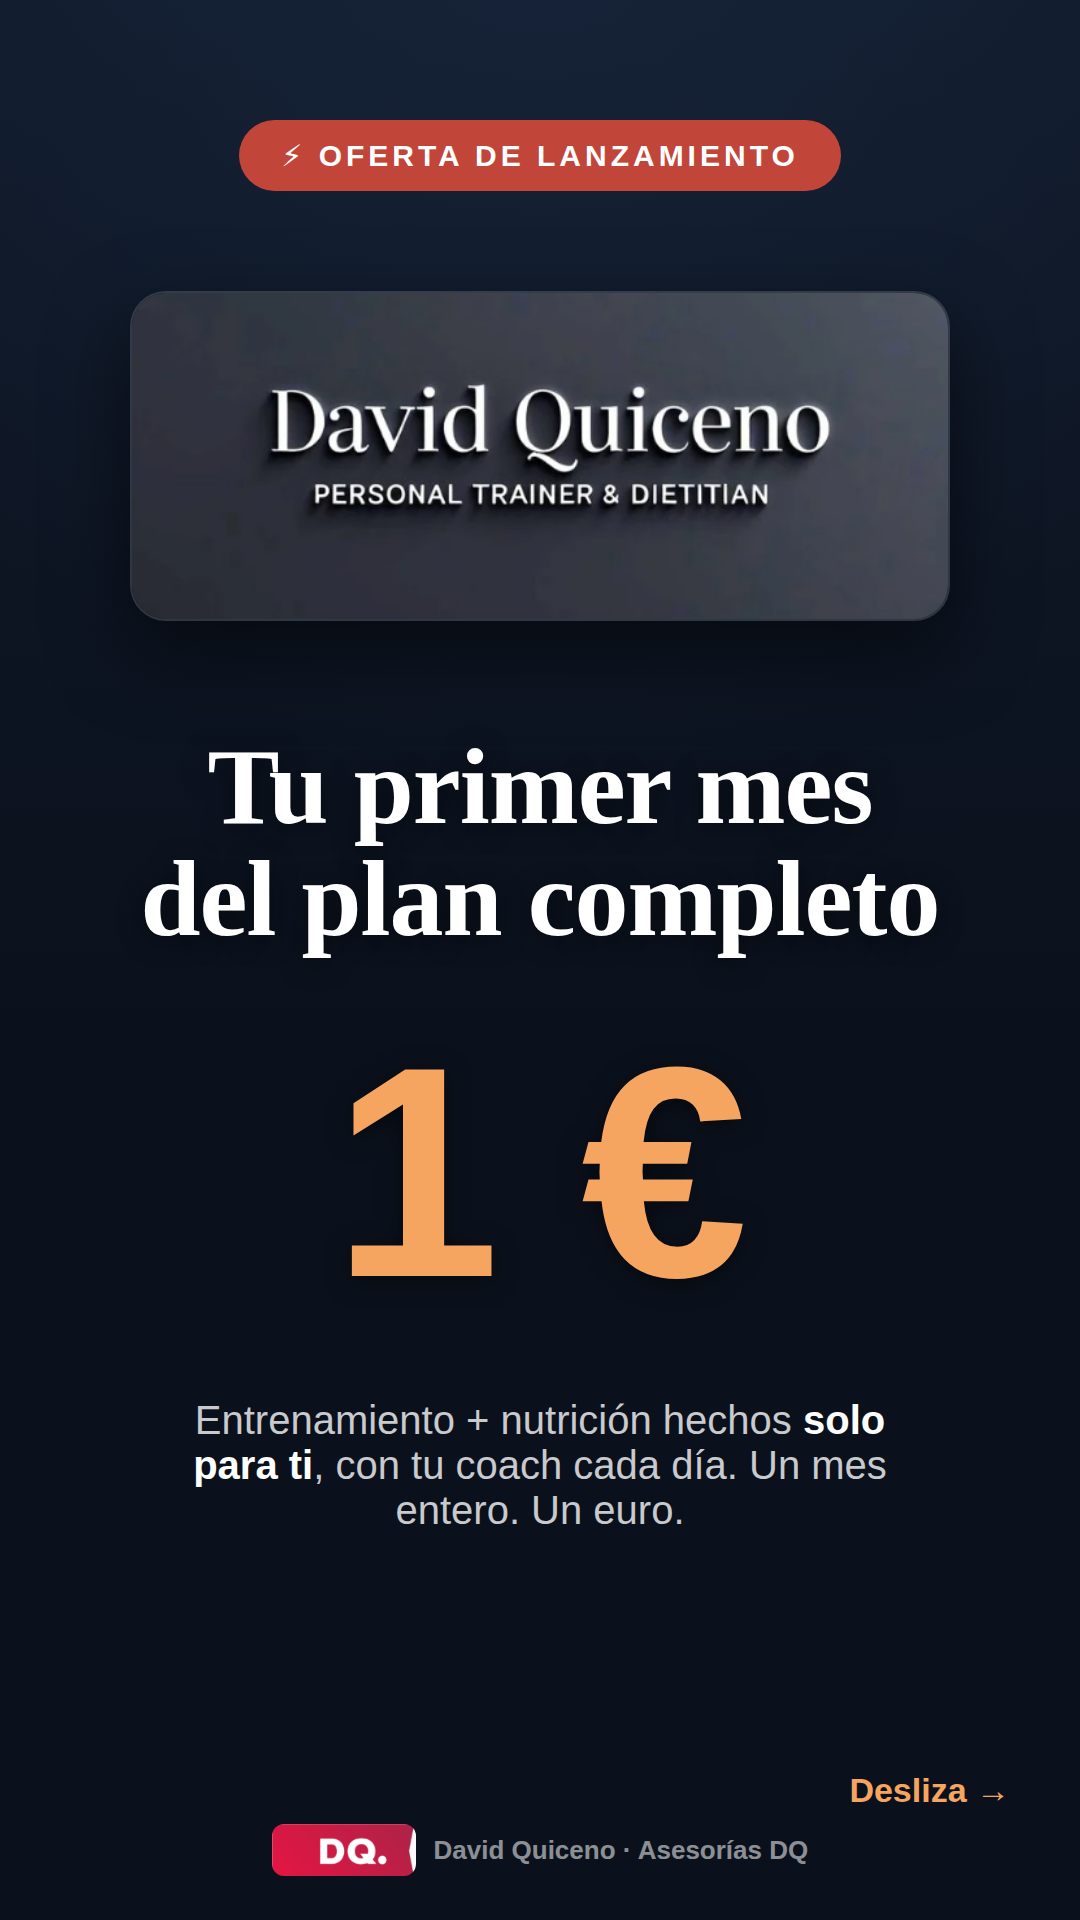
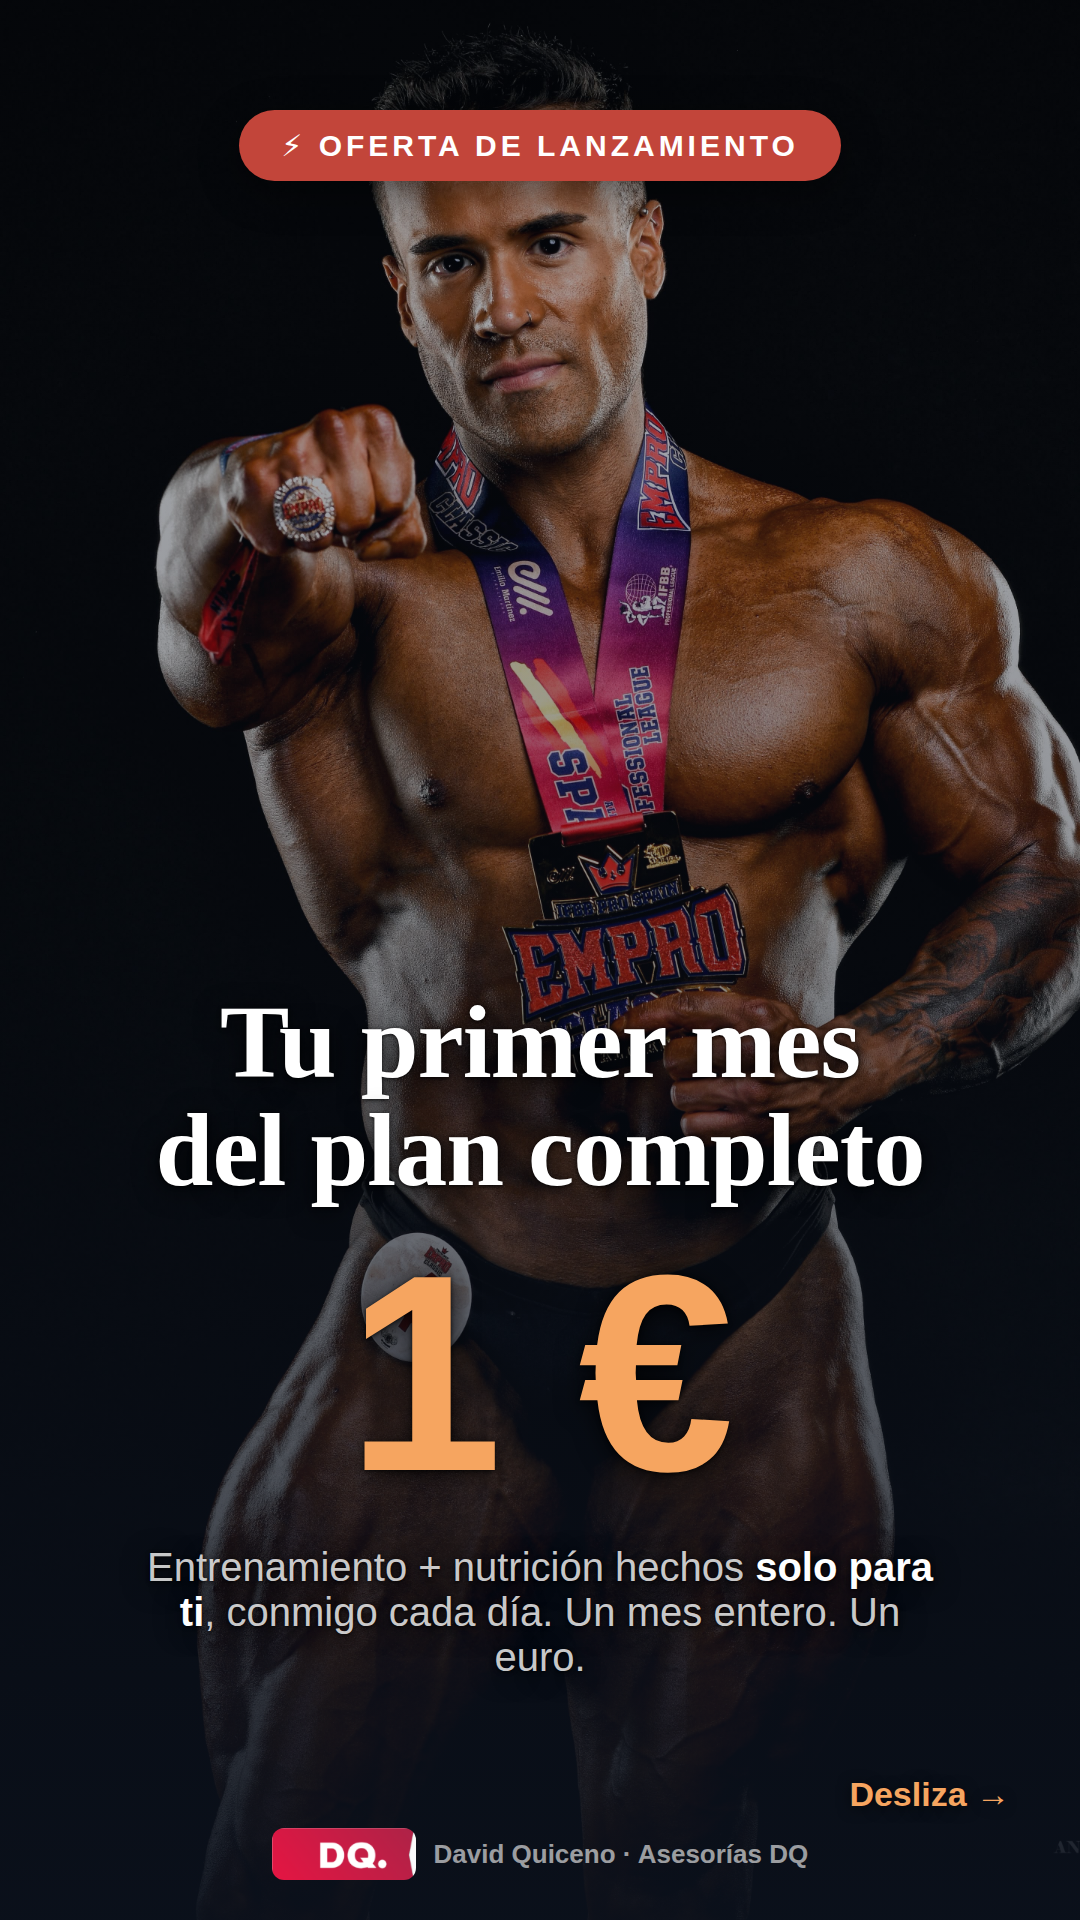
Carrusel de la oferta rehecho con las fotos reales del coach
Las 8 piezas (4 story 1080×1920 + 4 post 1080×1350) usan las fotos que
envió el dueño: portada y cierre a sangre con las de competición (medalla
EMPRO y pro card — autoridad), el gimnasio en "qué incluye" y el espejo en
la de garantía (cercanía). La de los botes del partner se descartó para no
mezclar marcas en la promo. Fuente HTML editable + fotos en marketing/.

Claude-Session: https://claude.ai/code/session_01MEW7JVgvk6TEFN6kikkskf

diff --git a/marketing/oferta-1eur/carrusel.html b/marketing/oferta-1eur/carrusel.html
@@ -2,7 +2,7 @@
 <html lang="es">
 <head>
 <meta charset="utf-8">
-<title>Carrusel oferta DQ</title>
+<title>Carrusel oferta DQ — fotos del coach</title>
 <style>
   :root {
     --bg: #0B111C;
@@ -23,43 +23,54 @@
     display: flex; flex-direction: column; align-items: center;
     margin: 20px auto;
   }
-  .story { width: 1080px; height: 1920px; padding: 120px 90px 110px; }
-  .post  { width: 1080px; height: 1350px; padding: 90px 90px 80px; }
+  .story { width: 1080px; height: 1920px; padding: 110px 90px 110px; }
+  .post  { width: 1080px; height: 1350px; padding: 80px 90px 80px; }
   .serif { font-family: Georgia, "Times New Roman", serif; }
+
+  /* Foto a SANGRE de fondo (portada y cierre) + velo para leer el texto */
+  .bleed { position: absolute; inset: 0; z-index: 0; }
+  .bleed img { width: 100%; height: 100%; object-fit: cover; }
+  .veil {
+    position: absolute; inset: 0; z-index: 1;
+    background: linear-gradient(180deg, rgba(11,17,28,0.30) 0%,
+                rgba(11,17,28,0.42) 45%, rgba(11,17,28,0.94) 100%);
+  }
+  .over { position: relative; z-index: 2; display: flex; flex-direction: column; align-items: center; width: 100%; }
 
   .pill {
     display: inline-flex; align-items: center; gap: 12px;
     background: var(--red); color: #fff; font-weight: 800;
     letter-spacing: 4px; text-transform: uppercase;
     border-radius: 999px; padding: 18px 42px; font-size: 30px;
+    box-shadow: 0 10px 40px rgba(0,0,0,0.45);
   }
   .kicker { color: var(--green-soft); font-weight: 700; font-size: 34px; letter-spacing: 1px; }
   .big { font-weight: 900; line-height: 1.04; letter-spacing: -1px; }
   .euro { color: var(--accent-soft); }
-  .muted { color: rgba(255,255,255,0.78); }
+  .muted { color: rgba(255,255,255,0.80); }
   .card {
-    background: rgba(255,255,255,0.05);
-    border: 2px solid rgba(255,255,255,0.14);
-    border-radius: 36px; backdrop-filter: blur(2px);
+    background: rgba(11,17,28,0.55);
+    border: 2px solid rgba(255,255,255,0.16);
+    border-radius: 36px; backdrop-filter: blur(3px);
   }
   .foot {
-    position: absolute; left: 0; right: 0; bottom: 44px;
+    position: absolute; left: 0; right: 0; bottom: 40px; z-index: 2;
     display: flex; align-items: center; justify-content: center; gap: 18px;
-    color: rgba(255,255,255,0.55); font-size: 26px; font-weight: 600;
+    color: rgba(255,255,255,0.60); font-size: 26px; font-weight: 600;
   }
   .foot img { height: 52px; border-radius: 12px; }
   .swipe {
-    position: absolute; right: 70px; bottom: 110px;
+    position: absolute; right: 70px; bottom: 106px; z-index: 2;
     color: var(--accent-soft); font-size: 34px; font-weight: 800;
+    text-shadow: 0 2px 14px rgba(0,0,0,0.7);
   }
   .check { color: var(--green-soft); font-weight: 900; }
-  .shadowtxt { text-shadow: 0 4px 24px rgba(0,0,0,0.55); }
+  .shadowtxt { text-shadow: 0 4px 26px rgba(0,0,0,0.75), 0 1px 4px rgba(0,0,0,0.8); }
 
-  /* fotos */
   .photo-frame {
     border-radius: 36px; overflow: hidden;
-    box-shadow: 0 30px 80px rgba(0,0,0,0.55);
-    border: 2px solid rgba(255,255,255,0.14);
+    box-shadow: 0 30px 80px rgba(0,0,0,0.60);
+    border: 2px solid rgba(255,255,255,0.16);
   }
   .photo-frame img { display: block; width: 100%; height: 100%; object-fit: cover; }
 </style>
@@ -68,62 +79,65 @@
 
 <!-- ============================ STORY (1080x1920) ============================ -->
 
-<!-- S1: portada, máxima expectación -->
+<!-- S1: portada — foto de competición a sangre, máxima expectación -->
 <section class="slide story" id="story-1">
-  <span class="pill">⚡ Oferta de lanzamiento</span>
-  <div class="photo-frame" style="width:820px;height:330px;margin-top:100px;">
-    <img src="cover.png" alt="">
+  <div class="bleed"><img src="punch.jpg" style="object-position: 50% 12%;"></div>
+  <div class="veil"></div>
+  <div class="over" style="height:100%;justify-content:space-between;">
+    <span class="pill">⚡ Oferta de lanzamiento</span>
+    <div style="display:flex;flex-direction:column;align-items:center;margin-bottom:130px;">
+      <h1 class="big serif shadowtxt" style="font-size:104px;text-align:center;">
+        Tu primer mes<br>del plan completo
+      </h1>
+      <div class="big shadowtxt" style="font-size:280px;margin-top:24px;">
+        <span class="euro">1 €</span>
+      </div>
+      <p class="muted shadowtxt" style="font-size:40px;text-align:center;margin-top:26px;max-width:800px;">
+        Entrenamiento + nutrición hechos <b style="color:#fff;">solo para ti</b>,
+        conmigo cada día. Un mes entero. Un euro.
+      </p>
+    </div>
   </div>
-  <h1 class="big serif shadowtxt" style="font-size:108px;text-align:center;margin-top:110px;">
-    Tu primer mes<br>del plan completo
-  </h1>
-  <div class="big shadowtxt" style="font-size:300px;margin-top:60px;" >
-    <span class="euro">1 €</span>
-  </div>
-  <p class="muted" style="font-size:40px;text-align:center;margin-top:70px;max-width:760px;">
-    Entrenamiento + nutrición hechos <b style="color:#fff;">solo para ti</b>,
-    con tu coach cada día. Un mes entero. Un euro.
-  </p>
   <span class="swipe">Desliza →</span>
   <div class="foot"><img src="dq-logo.png" alt=""> David Quiceno · Asesorías DQ</div>
 </section>
 
-<!-- S2: qué incluye -->
+<!-- S2: qué incluye — el coach trabajando, plan a medida -->
 <section class="slide story" id="story-2">
   <span class="kicker">TODO ESTO, DESDE EL DÍA 1</span>
-  <h2 class="big serif" style="font-size:84px;text-align:center;margin-top:36px;">
+  <h2 class="big serif" style="font-size:82px;text-align:center;margin-top:34px;">
     Nada de plantillas.<br>Un plan <span class="euro">solo para ti</span>.
   </h2>
-  <div class="card" style="margin-top:80px;padding:70px 64px;width:100%;">
-    <div style="display:flex;flex-direction:column;gap:44px;font-size:42px;font-weight:600;">
+  <div class="photo-frame" style="width:100%;height:520px;margin-top:70px;">
+    <img src="gym.jpg" style="object-position: 50% 28%;">
+  </div>
+  <div class="card" style="margin-top:70px;padding:64px 64px;width:100%;">
+    <div style="display:flex;flex-direction:column;gap:42px;font-size:41px;font-weight:600;">
       <div><span class="check">✓</span>&nbsp; Entrenamiento a tu medida: tu material, tu horario, tus lesiones</div>
       <div><span class="check">✓</span>&nbsp; Nutrición a tu medida: tus gustos, tus horarios, tus alergias</div>
-      <div><span class="check">✓</span>&nbsp; Tu coach en WhatsApp todos los días</div>
+      <div><span class="check">✓</span>&nbsp; Conmigo en WhatsApp todos los días</div>
       <div><span class="check">✓</span>&nbsp; App con tu rutina, tu dieta y tu progreso</div>
       <div><span class="check">✓</span>&nbsp; Videollamada de revisión</div>
     </div>
   </div>
-  <div class="photo-frame" style="width:100%;height:400px;margin-top:80px;">
-    <img src="header_food.png" alt="">
-  </div>
   <span class="swipe">Desliza →</span>
   <div class="foot"><img src="dq-logo.png" alt=""> David Quiceno · Asesorías DQ</div>
 </section>
 
-<!-- S3: después del primer mes + garantía -->
+<!-- S3: después del primer mes + garantía — cercanía (espejo) -->
 <section class="slide story" id="story-3">
   <span class="kicker">¿Y DESPUÉS DEL PRIMER MES?</span>
-  <h2 class="big serif" style="font-size:88px;text-align:center;margin-top:40px;">
+  <h2 class="big serif" style="font-size:84px;text-align:center;margin-top:36px;">
     Sigues por <span class="euro">menos</span> de lo que cuestan entreno y nutrición por separado
   </h2>
-  <div style="display:flex;justify-content:center;margin-top:90px;">
-    <div class="photo-frame" style="width:560px;height:520px;background:#fff;">
-      <img src="plate.png" alt="" style="object-fit:contain;padding:30px;">
+  <div style="display:flex;justify-content:center;margin-top:74px;">
+    <div class="photo-frame" style="width:560px;height:660px;">
+      <img src="espejo.jpg" style="object-position: 50% 20%;">
     </div>
   </div>
-  <div class="card" style="margin-top:90px;padding:60px 64px;width:100%;border-color:#2E7D46;">
+  <div class="card" style="margin-top:74px;padding:56px 64px;width:100%;border-color:#2E7D46;">
     <p style="font-size:46px;font-weight:800;color:var(--green-soft);"><svg width="40" height="44" viewBox="0 0 24 24" fill="none" style="vertical-align:-8px;margin-right:6px;"><path d="M12 2 L20 5.5 V11 C20 16.5 16.6 20.6 12 22 C7.4 20.6 4 16.5 4 11 V5.5 Z" fill="#2E7D46" stroke="#6FE39A" stroke-width="1.6"/><path d="M8.5 11.5 L11 14 L15.5 9" stroke="#fff" stroke-width="2.2" stroke-linecap="round" stroke-linejoin="round" fill="none"/></svg>Garantía de satisfacción</p>
-    <p class="muted" style="font-size:38px;margin-top:24px;line-height:1.35;">
+    <p class="muted" style="font-size:37px;margin-top:22px;line-height:1.35;">
       Sin permanencia: si no te convence, cancelas y no pagas nada más.
       Tú decides cada mes.
     </p>
@@ -132,105 +146,110 @@
   <div class="foot"><img src="dq-logo.png" alt=""> David Quiceno · Asesorías DQ</div>
 </section>
 
-<!-- S4: CTA -->
+<!-- S4: CTA — autoridad (pro card / trofeos) a sangre -->
 <section class="slide story" id="story-4">
-  <div class="photo-frame" style="width:760px;height:300px;margin-top:40px;">
-    <img src="cover.png" alt="">
+  <div class="bleed"><img src="procard.jpg" style="object-position: 50% 8%;"></div>
+  <div class="veil" style="background:linear-gradient(180deg, rgba(11,17,28,0.30) 0%, rgba(11,17,28,0.50) 40%, rgba(11,17,28,0.96) 100%);"></div>
+  <div class="over" style="height:100%;justify-content:flex-end;">
+    <h2 class="big serif shadowtxt" style="font-size:96px;text-align:center;">
+      Hoy decides.<br>Hoy <span class="euro">empiezas</span>.
+    </h2>
+    <div class="big shadowtxt" style="font-size:170px;margin-top:40px;">
+      <span class="euro">1 €</span>
+    </div>
+    <p class="muted shadowtxt" style="font-size:40px;margin-top:16px;">tu primer mes · plazas limitadas</p>
+    <div style="margin-top:64px;margin-bottom:150px;background:var(--accent);border-radius:32px;padding:42px 88px;
+                font-size:52px;font-weight:900;box-shadow:0 24px 70px rgba(232,131,58,0.45);">
+      LINK EN LA BIO →
+    </div>
   </div>
-  <h2 class="big serif shadowtxt" style="font-size:100px;text-align:center;margin-top:130px;">
-    Hoy decides.<br>Hoy <span class="euro">empiezas</span>.
-  </h2>
-  <div class="big" style="font-size:190px;margin-top:80px;">
-    <span class="euro">1 €</span>
-  </div>
-  <p class="muted" style="font-size:42px;margin-top:30px;">tu primer mes · plazas limitadas</p>
-  <div style="margin-top:110px;background:var(--accent);border-radius:32px;padding:44px 90px;
-              font-size:52px;font-weight:900;box-shadow:0 24px 70px rgba(232,131,58,0.35);">
-    LINK EN LA BIO →
-  </div>
-  <p class="muted" style="font-size:32px;margin-top:60px;">Pago seguro con Stripe · Cancela cuando quieras</p>
+  <span class="swipe" style="bottom:auto;top:90px;right:70px;">Pago seguro con Stripe</span>
   <div class="foot"><img src="dq-logo.png" alt=""> David Quiceno · Asesorías DQ</div>
 </section>
 
 <!-- ============================ POST (1080x1350) ============================ -->
 
 <section class="slide post" id="post-1">
-  <span class="pill">⚡ Oferta de lanzamiento</span>
-  <div class="photo-frame" style="width:740px;height:290px;margin-top:64px;">
-    <img src="cover.png" alt="">
+  <div class="bleed"><img src="punch.jpg" style="object-position: 50% 10%;"></div>
+  <div class="veil"></div>
+  <div class="over" style="height:100%;justify-content:space-between;">
+    <span class="pill">⚡ Oferta de lanzamiento</span>
+    <div style="display:flex;flex-direction:column;align-items:center;margin-bottom:110px;">
+      <h1 class="big serif shadowtxt" style="font-size:86px;text-align:center;">
+        Tu primer mes<br>del plan completo
+      </h1>
+      <div class="big shadowtxt" style="font-size:210px;margin-top:14px;">
+        <span class="euro">1 €</span>
+      </div>
+      <p class="muted shadowtxt" style="font-size:34px;text-align:center;margin-top:18px;max-width:760px;">
+        Entrenamiento + nutrición hechos <b style="color:#fff;">solo para ti</b>,
+        conmigo cada día. Un mes entero. Un euro.
+      </p>
+    </div>
   </div>
-  <h1 class="big serif shadowtxt" style="font-size:88px;text-align:center;margin-top:70px;">
-    Tu primer mes<br>del plan completo
-  </h1>
-  <div class="big shadowtxt" style="font-size:230px;margin-top:30px;">
-    <span class="euro">1 €</span>
-  </div>
-  <p class="muted" style="font-size:34px;text-align:center;margin-top:40px;max-width:720px;">
-    Entrenamiento + nutrición hechos <b style="color:#fff;">solo para ti</b>,
-    con tu coach cada día. Un mes entero. Un euro.
-  </p>
-  <span class="swipe" style="bottom:120px;">Desliza →</span>
+  <span class="swipe" style="bottom:118px;">Desliza →</span>
   <div class="foot"><img src="dq-logo.png" alt=""> David Quiceno · Asesorías DQ</div>
 </section>
 
 <section class="slide post" id="post-2">
   <span class="kicker" style="font-size:30px;">TODO ESTO, DESDE EL DÍA 1</span>
-  <h2 class="big serif" style="font-size:64px;text-align:center;margin-top:28px;">
+  <h2 class="big serif" style="font-size:62px;text-align:center;margin-top:26px;">
     Nada de plantillas.<br>Un plan <span class="euro">solo para ti</span>.
   </h2>
-  <div class="card" style="margin-top:54px;padding:52px 56px;width:100%;">
-    <div style="display:flex;flex-direction:column;gap:34px;font-size:35px;font-weight:600;">
+  <div class="photo-frame" style="width:100%;height:360px;margin-top:48px;">
+    <img src="gym.jpg" style="object-position: 50% 28%;">
+  </div>
+  <div class="card" style="margin-top:48px;padding:48px 56px;width:100%;">
+    <div style="display:flex;flex-direction:column;gap:32px;font-size:34px;font-weight:600;">
       <div><span class="check">✓</span>&nbsp; Entrenamiento a tu medida: material, horario, lesiones</div>
       <div><span class="check">✓</span>&nbsp; Nutrición a tu medida: gustos, horarios, alergias</div>
-      <div><span class="check">✓</span>&nbsp; Tu coach en WhatsApp todos los días</div>
+      <div><span class="check">✓</span>&nbsp; Conmigo en WhatsApp todos los días</div>
       <div><span class="check">✓</span>&nbsp; App con tu rutina, tu dieta y tu progreso</div>
       <div><span class="check">✓</span>&nbsp; Videollamada de revisión</div>
     </div>
   </div>
-  <div class="photo-frame" style="width:100%;height:300px;margin-top:56px;">
-    <img src="header_food.png" alt="">
-  </div>
-  <span class="swipe" style="bottom:120px;">Desliza →</span>
+  <span class="swipe" style="bottom:118px;">Desliza →</span>
   <div class="foot"><img src="dq-logo.png" alt=""> David Quiceno · Asesorías DQ</div>
 </section>
 
 <section class="slide post" id="post-3">
   <span class="kicker" style="font-size:30px;">¿Y DESPUÉS DEL PRIMER MES?</span>
-  <h2 class="big serif" style="font-size:66px;text-align:center;margin-top:30px;">
+  <h2 class="big serif" style="font-size:64px;text-align:center;margin-top:28px;">
     Sigues por <span class="euro">menos</span> de lo que cuestan entreno y nutrición por separado
   </h2>
-  <div style="display:flex;justify-content:center;margin-top:56px;">
-    <div class="photo-frame" style="width:430px;height:400px;background:#fff;">
-      <img src="plate.png" alt="" style="object-fit:contain;padding:24px;">
+  <div style="display:flex;justify-content:center;margin-top:50px;">
+    <div class="photo-frame" style="width:430px;height:470px;">
+      <img src="espejo.jpg" style="object-position: 50% 20%;">
     </div>
   </div>
-  <div class="card" style="margin-top:60px;padding:46px 56px;width:100%;border-color:#2E7D46;">
-    <p style="font-size:38px;font-weight:800;color:var(--green-soft);"><svg width="40" height="44" viewBox="0 0 24 24" fill="none" style="vertical-align:-8px;margin-right:6px;"><path d="M12 2 L20 5.5 V11 C20 16.5 16.6 20.6 12 22 C7.4 20.6 4 16.5 4 11 V5.5 Z" fill="#2E7D46" stroke="#6FE39A" stroke-width="1.6"/><path d="M8.5 11.5 L11 14 L15.5 9" stroke="#fff" stroke-width="2.2" stroke-linecap="round" stroke-linejoin="round" fill="none"/></svg>Garantía de satisfacción</p>
-    <p class="muted" style="font-size:32px;margin-top:18px;line-height:1.35;">
+  <div class="card" style="margin-top:52px;padding:44px 56px;width:100%;border-color:#2E7D46;">
+    <p style="font-size:38px;font-weight:800;color:var(--green-soft);"><svg width="34" height="38" viewBox="0 0 24 24" fill="none" style="vertical-align:-7px;margin-right:6px;"><path d="M12 2 L20 5.5 V11 C20 16.5 16.6 20.6 12 22 C7.4 20.6 4 16.5 4 11 V5.5 Z" fill="#2E7D46" stroke="#6FE39A" stroke-width="1.6"/><path d="M8.5 11.5 L11 14 L15.5 9" stroke="#fff" stroke-width="2.2" stroke-linecap="round" stroke-linejoin="round" fill="none"/></svg>Garantía de satisfacción</p>
+    <p class="muted" style="font-size:31px;margin-top:16px;line-height:1.35;">
       Sin permanencia: si no te convence, cancelas y no pagas nada más.
       Tú decides cada mes.
     </p>
   </div>
-  <span class="swipe" style="bottom:120px;">Desliza →</span>
+  <span class="swipe" style="bottom:118px;">Desliza →</span>
   <div class="foot"><img src="dq-logo.png" alt=""> David Quiceno · Asesorías DQ</div>
 </section>
 
 <section class="slide post" id="post-4">
-  <div class="photo-frame" style="width:680px;height:260px;margin-top:20px;">
-    <img src="cover.png" alt="">
+  <div class="bleed"><img src="procard.jpg" style="object-position: 50% 6%;"></div>
+  <div class="veil" style="background:linear-gradient(180deg, rgba(11,17,28,0.30) 0%, rgba(11,17,28,0.50) 40%, rgba(11,17,28,0.96) 100%);"></div>
+  <div class="over" style="height:100%;justify-content:flex-end;">
+    <h2 class="big serif shadowtxt" style="font-size:76px;text-align:center;">
+      Hoy decides.<br>Hoy <span class="euro">empiezas</span>.
+    </h2>
+    <div class="big shadowtxt" style="font-size:130px;margin-top:26px;">
+      <span class="euro">1 €</span>
+    </div>
+    <p class="muted shadowtxt" style="font-size:33px;margin-top:10px;">tu primer mes · plazas limitadas</p>
+    <div style="margin-top:44px;margin-bottom:130px;background:var(--accent);border-radius:28px;padding:34px 74px;
+                font-size:44px;font-weight:900;box-shadow:0 24px 70px rgba(232,131,58,0.45);">
+      LINK EN LA BIO →
+    </div>
   </div>
-  <h2 class="big serif shadowtxt" style="font-size:80px;text-align:center;margin-top:80px;">
-    Hoy decides.<br>Hoy <span class="euro">empiezas</span>.
-  </h2>
-  <div class="big" style="font-size:150px;margin-top:44px;">
-    <span class="euro">1 €</span>
-  </div>
-  <p class="muted" style="font-size:34px;margin-top:18px;">tu primer mes · plazas limitadas</p>
-  <div style="margin-top:70px;background:var(--accent);border-radius:28px;padding:36px 76px;
-              font-size:44px;font-weight:900;box-shadow:0 24px 70px rgba(232,131,58,0.35);">
-    LINK EN LA BIO →
-  </div>
-  <p class="muted" style="font-size:28px;margin-top:44px;">Pago seguro con Stripe · Cancela cuando quieras</p>
+  <span class="swipe" style="bottom:auto;top:76px;right:70px;">Pago seguro con Stripe</span>
   <div class="foot"><img src="dq-logo.png" alt=""> David Quiceno · Asesorías DQ</div>
 </section>
 
